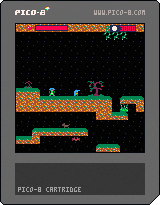
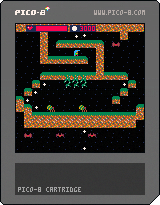
mod readme

Changed region(s): [[0.0938, 0.1171, 0.9062, 0.7024], [0.5938, 0.7024, 0.75, 0.761], [0.5, 0.7024, 0.5312, 0.7317]]

diff --git a/README.md b/README.md
@@ -1,6 +1,5 @@
 [#last_spell_caster_0_9-3#]
 
-
 [img]/media/135332/last_spellcaster p8_2.gif[/img]
 [img]/media/135332/last_spellcaster min_0.gif[/img]
 [img]/media/135332/last_spellcaster min_1.gif[/img]
@@ -9,6 +8,11 @@
 # The Last Spellcaster (Work in progress)
 
 ## Log updates
+ - 0.9.5 (2026-04-21)
+   - Major fixes to all maps
+   - Improved map design
+   - Added keys mechanism instead of shard doors.
+   - Improved sounds
  - 0.9.3 (2026-03-21)
    - Major fixes
    - Improved maps and bosses health bars
@@ -33,9 +37,9 @@ The player has four main spell it can learn and cast:
  - **ice**: used to transform enemies in ice cubes you can walk on
  - **wind**: use to push enemies in specific places, mostly useful in combination with ice to make some platforms to jump on a get over some gaps.
 
-The player must use special **focus stones** to change the current spell to use.
+The player can switch to a different spell (if acquired) tapping twice the down stick/arrow
 
-To pass some special doors, or to learn spells, the player must collect **shards** 
+The player must collect **shards** in order to unlock scroll powers.
 
 ## Features (some in development):
  - 9 tile maps (48x32) to explore. All the maps are connected in many ways 
@@ -64,8 +68,7 @@ Not yet ready
 ## Things to improve:
 Bullet design, enemies ai, boss movements, fighting style.
 
-## Known bugs:
- - in rare occasions map transitions is buggy.
+## Known bugs/glitches:
  - Avoid that the c_slider or texts can cover the player or the interacting object.
 
 ## Source Code:
